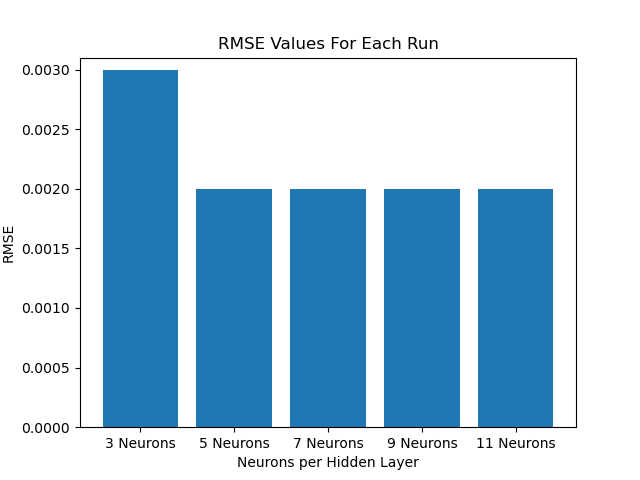
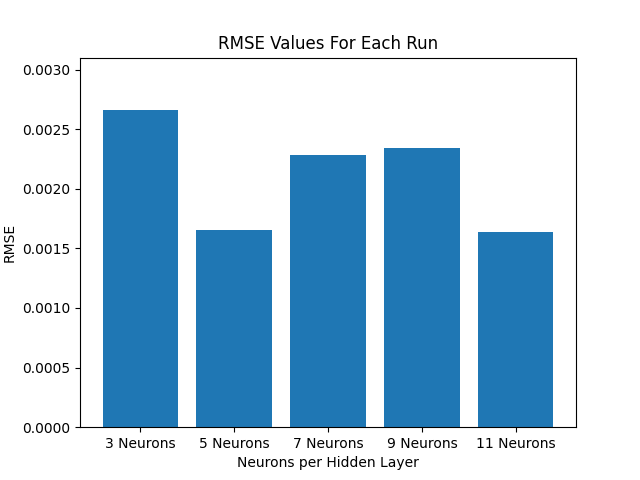
ran 3, 5, 7 neurons and adjusted train times y range

diff --git a/processData.py b/processData.py
@@ -48,7 +48,7 @@ plt.savefig("R2.png")
 fig = plt.figure()
 ax = plt.subplot()
 plt.bar(["3 Neurons","5 Neurons","7 Neurons","9 Neurons","11 Neurons"], [run3["trainTime"], run5["trainTime"], run7["trainTime"], run9["trainTime"], run11["trainTime"]], label="trainTime")
-plt.ylim([500, 590])
+plt.ylim([100, 250])
 plt.title("Training Time For Each Run")
 plt.xlabel("Neurons per Hidden Layer")
 plt.ylabel("Training Time (seconds)")

diff --git a/DNN_Drying_WaterContYAxis.py b/DNN_Drying_WaterContYAxis.py
@@ -104,7 +104,7 @@ def Deep_NN_5HiddenLayers(x, weights5, biases5):
 # costs = {3: [], 5: [], 7: [], 9: [], 11: []}
 # timeToRun = {3: [None, None], 5: [None, None], 7: [None, None], 9: [None, None], 11: [None, None]}
 # 9. Specify the number of neurons per layer i.e. neurons in input layer, hidden layer(s), and output layer
-num_neurons = 11
+num_neurons = 7
 start = datetime.now()
 dim_in = 1
 dim1 = num_neurons
